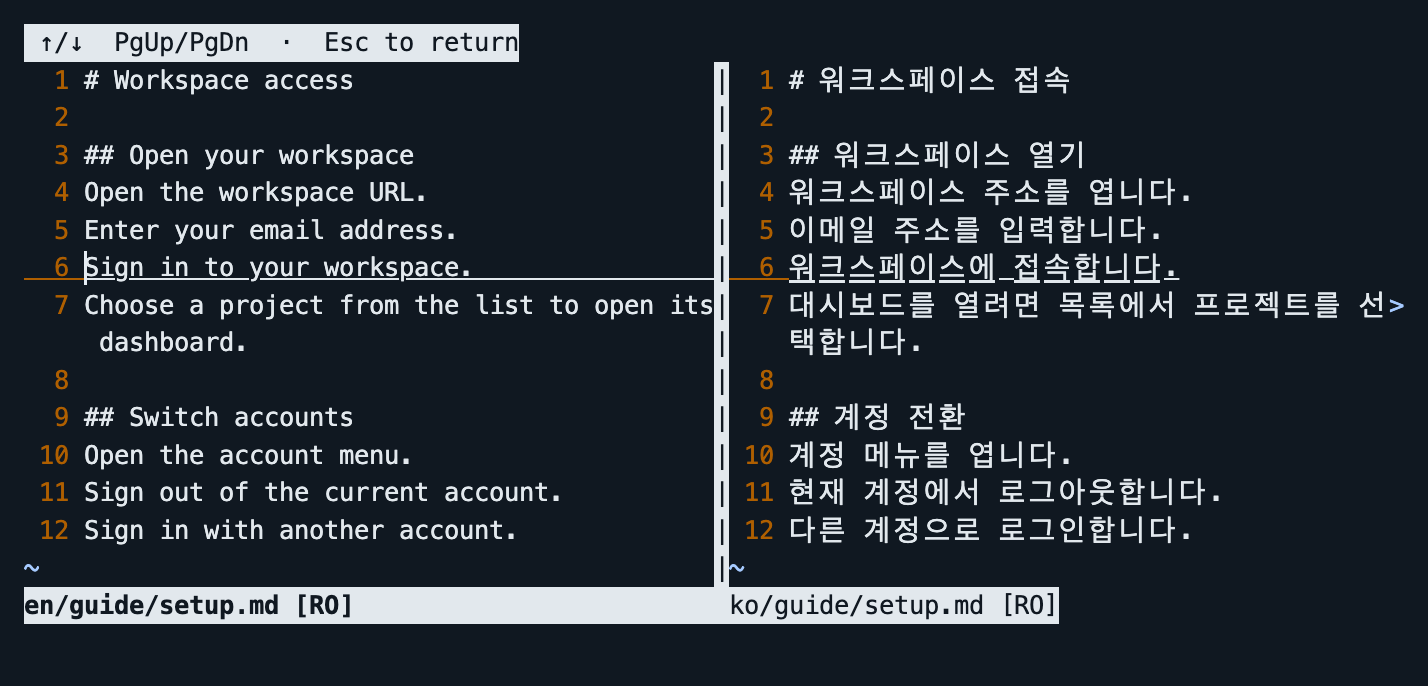
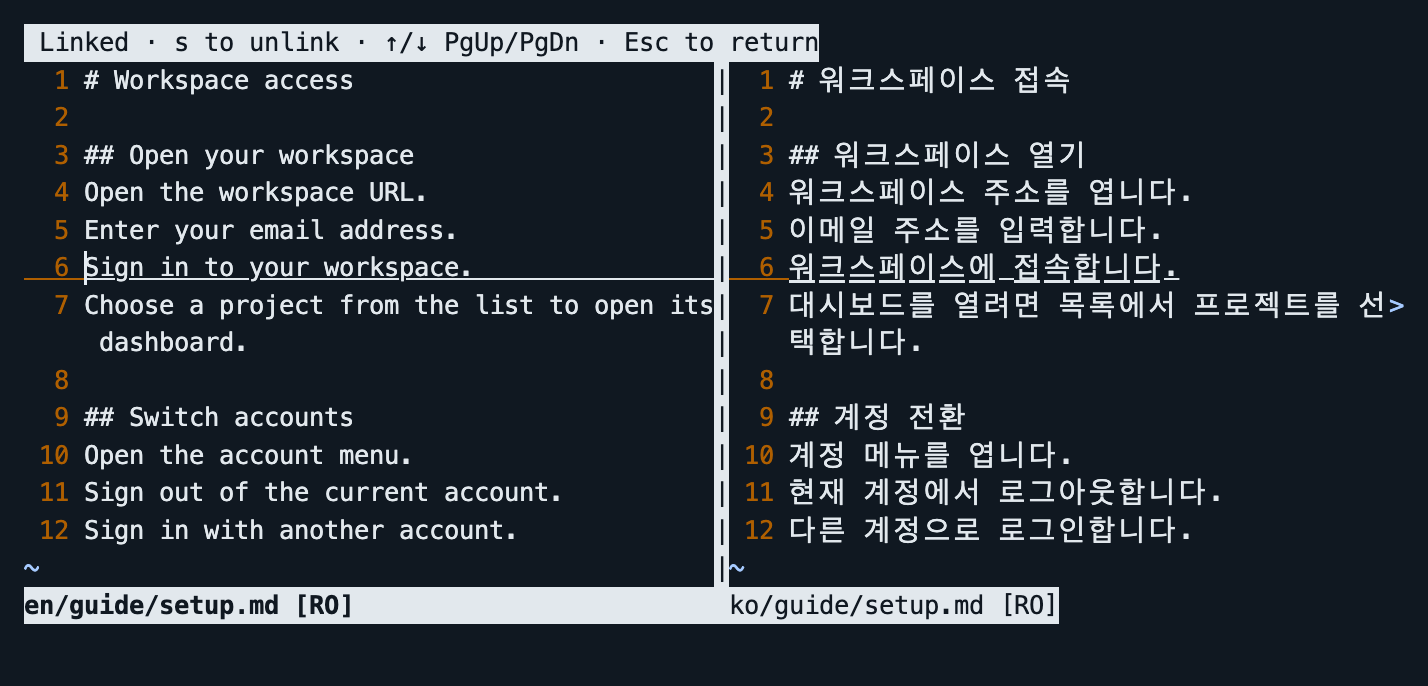
Allow independent scrolling in comparison panes

Changed region(s): [[0.0308, 0.0306, 0.5854, 0.0918]]

diff --git a/README.jp.md b/README.jp.md
@@ -52,10 +52,11 @@ tgrep 'sign in'
 
 ![Vim で英語の原文と韓国語訳の 6 行目を左右に並べた画面](assets/tgrep-compare.png)
 
-- 長い行は各ペインの幅に合わせて折り返されます。上下キーで画面上の 1 行ずつ、Page Up・Page Down で 1 ページずつ、左右のペインを一緒にスクロールできます。
+- 最初は両方のペインが連動します。長い行は各ペインの幅で折り返され、上下キーで画面上の 1 行ずつ、Page Up・Page Down で 1 ページずつ移動できます。
+- 別々に読みたいときは `s` を押し、左キーで原文、右キーで翻訳を選んでスクロールします。もう一度 `s` を押すと、選択中のペインの位置から連動を再開します。
 - `Esc` で元の検索結果に戻ります。
 
-両方のペインは行番号で揃います。翻訳で行を追加・削除した場合は、対応する文の位置がずれることがあります。
+連動中は両方のペインが行番号で揃います。翻訳で行を追加・削除した場合は、対応する文の位置がずれることがあります。
 
 ## 翻訳を直接編集する
 

diff --git a/README.kr.md b/README.kr.md
@@ -52,10 +52,11 @@ tgrep 'sign in'
 
 ![Vim에서 영어 원문과 한국어 번역의 6번째 줄을 좌우로 비교하는 화면](assets/tgrep-compare.png)
 
-- 긴 줄은 패널 너비에 맞춰 자동으로 줄바꿈됩니다. `↑`·`↓`로 화면 한 줄씩, `Page Up`·`Page Down`으로 한 페이지씩 양쪽을 함께 스크롤합니다.
+- 처음에는 두 패널이 함께 스크롤됩니다. 긴 줄은 패널 너비에 맞춰 줄바꿈되며, `↑`·`↓`로 한 줄씩, `Page Up`·`Page Down`으로 한 페이지씩 이동합니다.
+- 따로 읽으려면 `s`를 누르고 `←`로 원문, `→`로 번역을 선택해 스크롤합니다. `s`를 다시 누르면 선택한 패널의 위치에서 연동을 재개합니다.
 - `Esc`를 누르면 같은 검색 결과로 돌아옵니다.
 
-두 패널은 줄 번호를 기준으로 맞춰집니다. 번역에서 줄을 추가하거나 삭제했다면 같은 문장이 다른 줄에 있을 수 있습니다.
+연동 모드에서는 두 패널이 줄 번호를 기준으로 맞춰집니다. 번역에서 줄을 추가하거나 삭제했다면 같은 문장이 다른 줄에 있을 수 있습니다.
 
 ## 바로 편집하기
 

diff --git a/README.md b/README.md
@@ -52,10 +52,11 @@ Press **`F1`** on a result to open the source on the left and the first target l
 
 ![Vim showing line 6 of the English source beside line 6 of the Korean translation](assets/tgrep-compare.png)
 
-- Long lines wrap to fit each pane. Scroll both panes one screen line at a time with Up and Down, or a page at a time with Page Up and Page Down.
+- The panes scroll together by default. Long lines wrap to fit. Use Up and Down to move one screen line, or Page Up and Page Down to move one page.
+- To scroll independently, press `s`, then select the source with Left or the translation with Right. Press `s` again to link both panes at the active pane’s position.
 - Press `Esc` to return to the same search result.
 
-The panes align by line number. Adding or removing lines in a translation can put corresponding passages on different rows.
+Linked scrolling aligns the panes by line number. Adding or removing lines in a translation can put corresponding passages on different rows.
 
 ## Edit a translation
 
